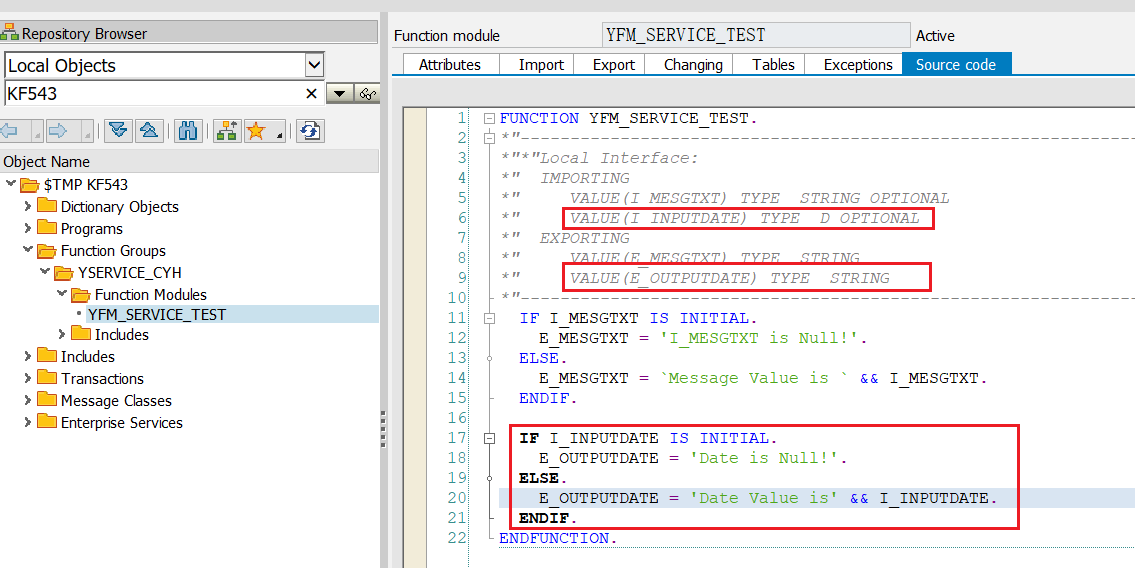
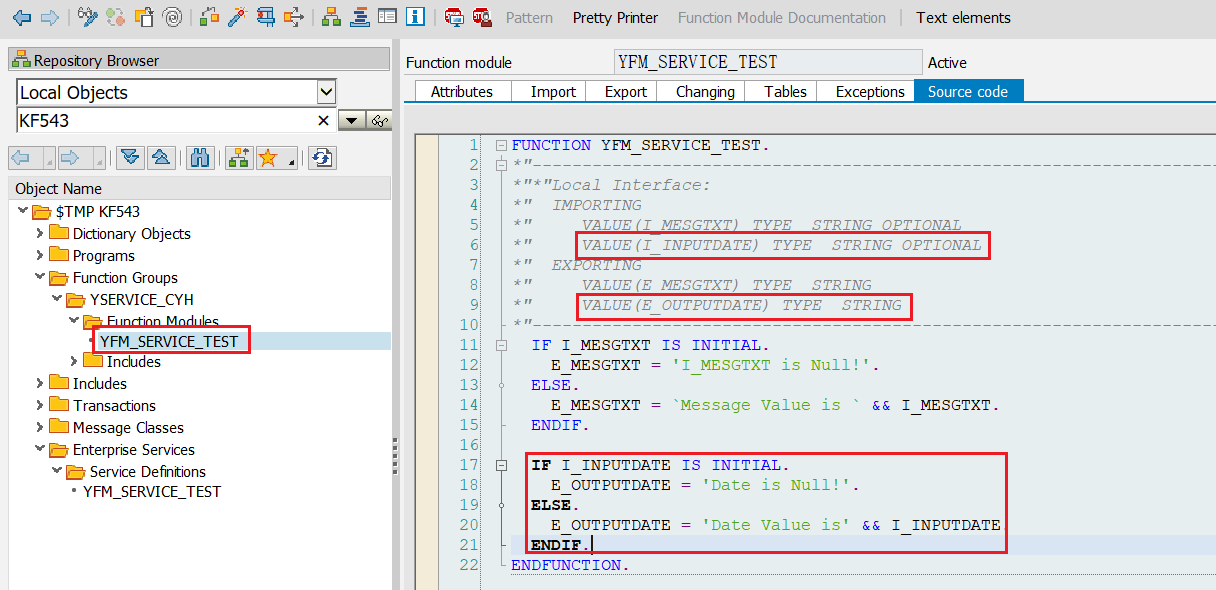
Site updated: 2023-06-21 13:00:46

diff --git a/2023/06/19/ABAP/SAP Web Services/SAP Web Service的发布/SAP-Web-Services/index.html b/2023/06/19/ABAP/SAP Web Services/SAP Web Service的发布/SAP-Web-Services/index.html
@@ -60,8 +60,9 @@
 <meta property="og:image" content="http://yoursite.com/2023/06/19/ABAP/SAP%20Web%20Services/SAP%20Web%20Service%E7%9A%84%E5%8F%91%E5%B8%83/SAP-Web-Services/43.%E9%87%8D%E6%96%B0%E5%8F%91%E5%B8%83Web%20Service.png">
 <meta property="og:image" content="http://yoursite.com/2023/06/19/ABAP/SAP%20Web%20Services/SAP%20Web%20Service%E7%9A%84%E5%8F%91%E5%B8%83/SAP-Web-Services/44.%E9%87%8D%E6%96%B0%E5%8F%91%E5%B8%83%E6%88%90%E5%8A%9F.png">
 <meta property="og:image" content="http://yoursite.com/2023/06/19/ABAP/SAP%20Web%20Services/SAP%20Web%20Service%E7%9A%84%E5%8F%91%E5%B8%83/SAP-Web-Services/45.WSDL%20%E5%8F%98%E6%9B%B4.png">
+<meta property="og:image" content="http://yoursite.com/2023/06/19/ABAP/SAP%20Web%20Services/SAP%20Web%20Service%E7%9A%84%E5%8F%91%E5%B8%83/SAP-Web-Services/46.%E9%87%8D%E6%96%B0%E5%8F%91%E5%B8%83%E5%8F%98%E6%9B%B4SOAP%20UI.png">
 <meta property="article:published_time" content="2023-06-19T07:18:33.000Z">
-<meta property="article:modified_time" content="2023-06-21T04:42:16.498Z">
+<meta property="article:modified_time" content="2023-06-21T04:56:24.547Z">
 <meta property="article:author" content="夜猫君">
 <meta property="article:tag" content="ABAP">
 <meta name="twitter:card" content="summary">
@@ -416,8 +417,11 @@
 
 <img src="/2023/06/19/ABAP/SAP%20Web%20Services/SAP%20Web%20Service%E7%9A%84%E5%8F%91%E5%B8%83/SAP-Web-Services/44.重新发布成功.png" alt="44.重新发布成功">
 
-<p>这样就发布成功了，然后对重新发布前后的WSDL URL进行比较。重新发布可能不会变更WSDL URL，但是还是对照下的好。至少本次我写文档时的WSDL URL是变更了的。</p>
+<p>这样就发布成功了，然后对重新发布前后的WSDL URL进行比较。重新发布一般不会变更WSDL URL，但是还是对照下的好。本次我的参数变更并没有修改WSDL URL。</p>
 <img src="/2023/06/19/ABAP/SAP%20Web%20Services/SAP%20Web%20Service%E7%9A%84%E5%8F%91%E5%B8%83/SAP-Web-Services/45.WSDL 变更.png" alt="45.WSDL 变更">
+
+<p>重新使用SOAP UI进行测试，发现修改成功。</p>
+<img src="/2023/06/19/ABAP/SAP%20Web%20Services/SAP%20Web%20Service%E7%9A%84%E5%8F%91%E5%B8%83/SAP-Web-Services/46.%E9%87%8D%E6%96%B0%E5%8F%91%E5%B8%83%E5%8F%98%E6%9B%B4SOAP%20UI.png" alt="46.重新发布变更SOAP UI">
 
 
 
